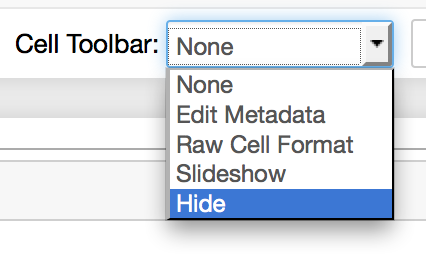
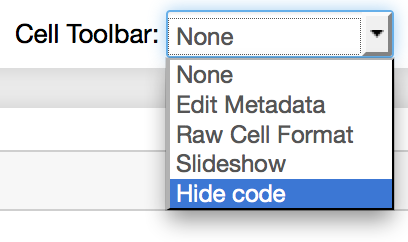
Updated README, fixed name in cell toolbar.

Changed region(s): [[0.0, 0.0289, 1.0, 0.9545]]

diff --git a/hide_code/hide_code.js b/hide_code/hide_code.js
@@ -84,10 +84,10 @@ function ($, celltoolbar){
 	function setup(){
 		ctb.register_callback('hide_code.hideCode', hideCodeCallback);
         ctb.register_callback('hide_code.hidePrompts', hidePromptCallback);
-        ctb.register_preset('Hide',['hide_code.hidePrompts','hide_code.hideCode']);
+        ctb.register_preset('Hide code',['hide_code.hidePrompts','hide_code.hideCode']);
         addHideCodeButtonToToolbar();
 	}
 	
 	setup();
-	console.log('setup complete');
+	console.log('hide_code setup complete');
 });
